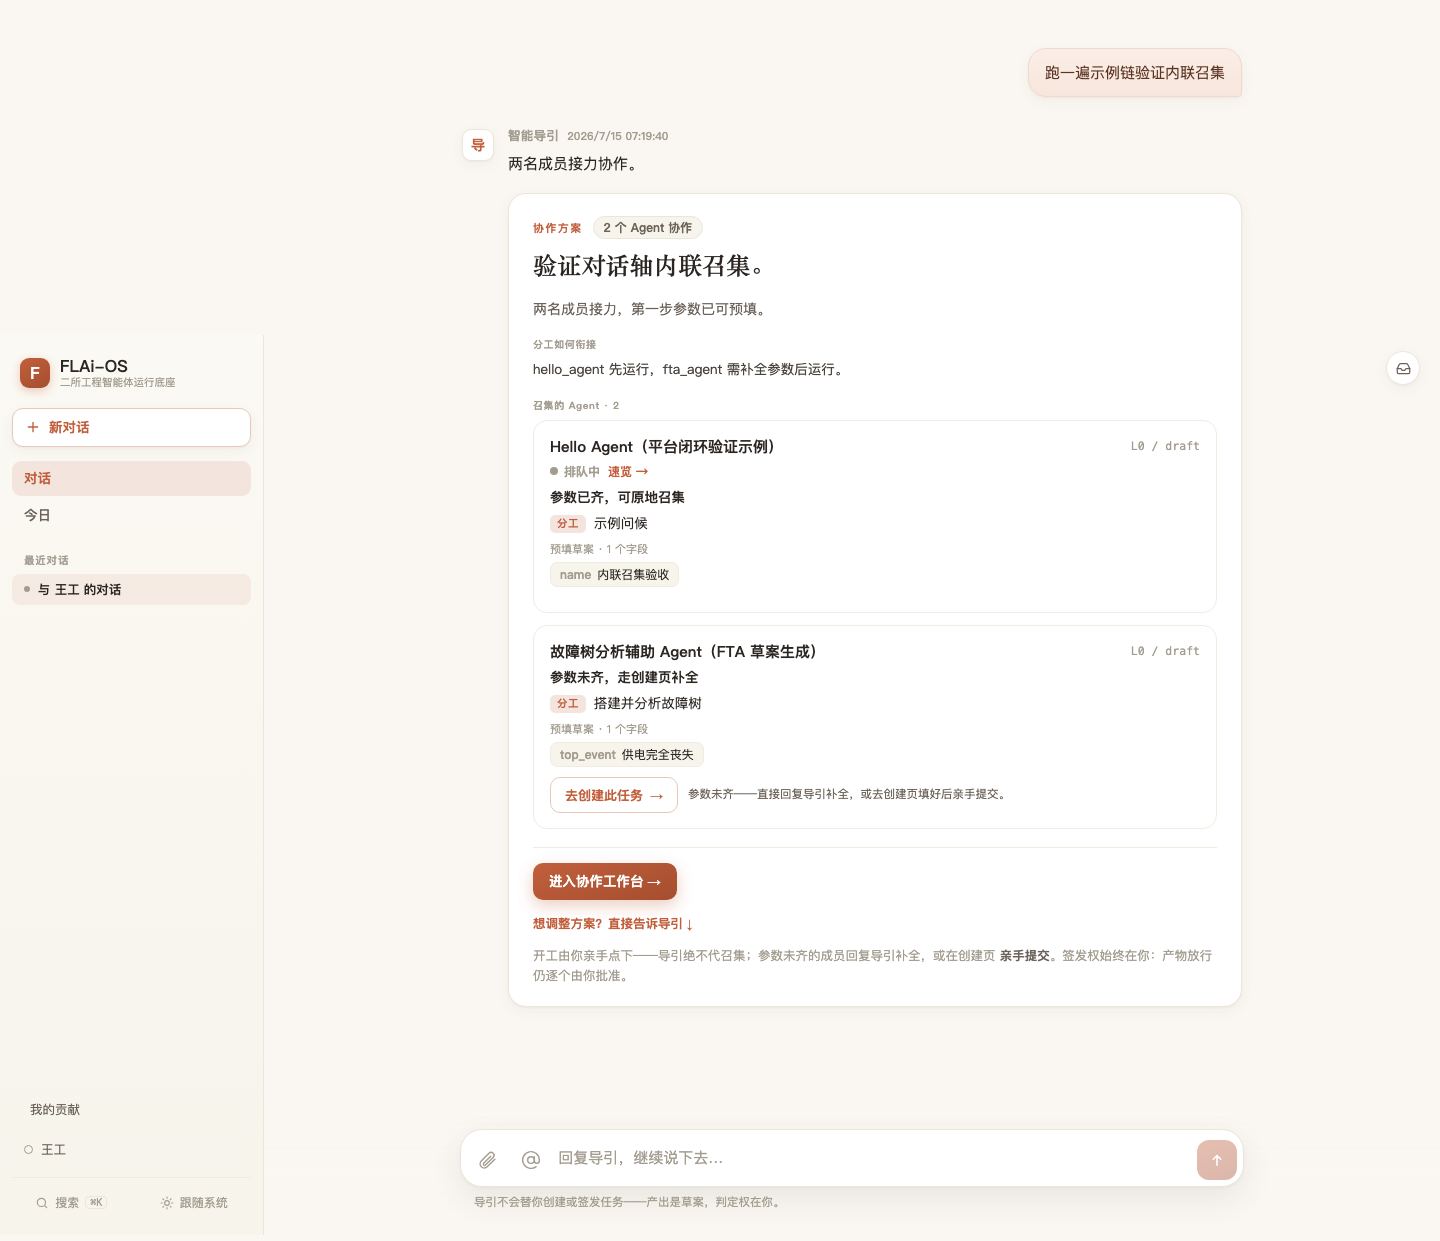
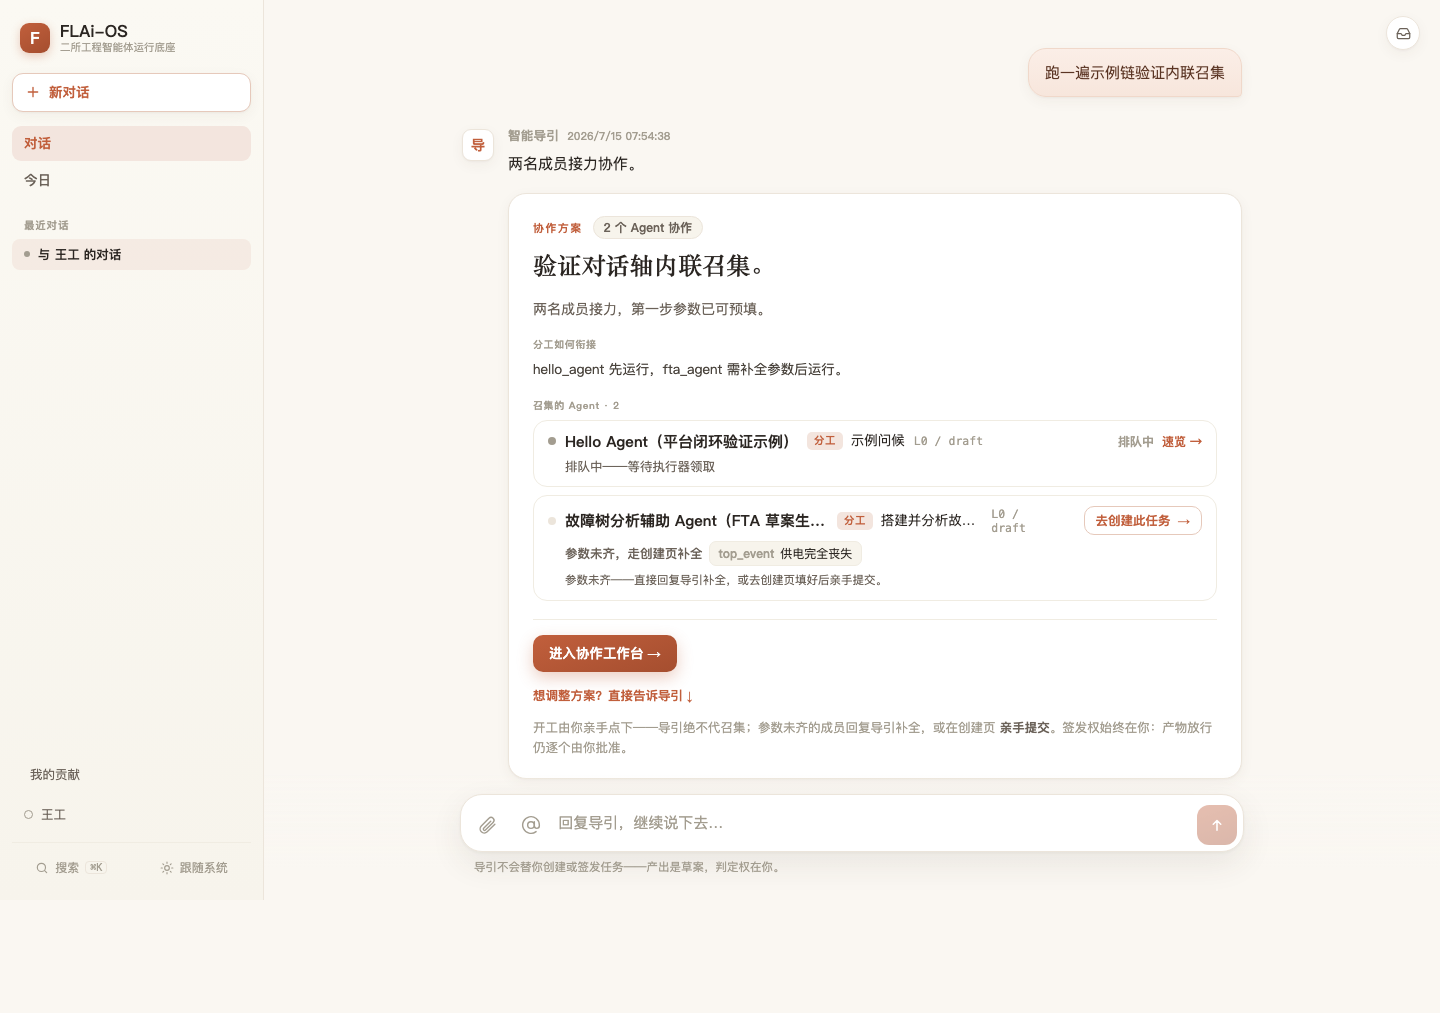
feat: 方案卡成员行改 codex 式实时子 agent 行（范式 2a 四刀）
owner 定向：成员不要大静卡，要 codex 子 agent 那样的紧凑实时行。依据
agent-ui-design disclosure-grammar canon（耗时+吞吐 meta / 时态即状态 /
完工盖章 / 运行态=文本活跳+扫光的灰阶纪律）：

- 一行一成员：状态灯（工作态脉动）+ 名字 + 分工 tag + 成熟度 + 右槽
  实时状态词 + 秒表「· 12s」（1s 离散文本替换，tabular-nums 不抖宽）+ 速览/审阅签发。
- 次行实时旁白：运行中=事件驱动（~3s 轮询 /tasks/{id}/events 取最新事件译成
  一行人话：迭代块 3/6 · 残差 2.1e-03——不滚屏 raw）+ shimmer 扫光
  （prefers-reduced-motion 关闭）；排队/待审/完成/失败各配语义句，
  完成=过去式盖章「任务完成 · 用时 10s」。
- 未召集成员：次行收纳理由+预填 chips 一行（过程可折）；就绪徽/创建页 escape
  语义原样；产物锚点行/速览/审阅签发/去创建此任务 等全部 e2e 锚点类名与文案不动。
- 引擎生命周期：仅存在工作态成员任务时运转（watch 开合），卸载即清；
  单任务事件拉取失败不打断其它行、不伪造旁白。
- 坑：.agent-card 基类 flex 声明在后，同特异性覆盖 .sa-row 的 block——
  双类 .agent-card.sa-row 压制（实拍逮到：完成行被挤成一行）。

e2e 14/14 绿 + m6/m8编排/m9 邻居绿；实机截图亲验（排队/运行/完成三态+秒表+盖章）。

confidence: high

diff --git a/frontend/src/views/GuidePage.vue b/frontend/src/views/GuidePage.vue
@@ -114,21 +114,29 @@
               </div>
 
               <div class="section-label roster-label">召集的 Agent · {{ m.recommendation.agents.length }}</div>
+              <!-- codex 式子 agent 行（owner 定向：紧凑+实时感，不要大静卡）：
+                   一行一名成员——状态灯 + 名字 + 分工 + 右槽实时状态词/耗时秒表；
+                   次行=实时进度旁白（运行中 shimmer 扫光，事件驱动）或未召集时的
+                   预填摘要。过程可折，变更与决策必露。 -->
               <div class="agent-list">
                 <div
                   v-for="(a, ai) in m.recommendation.agents"
                   :key="ai"
-                  class="agent-card"
-                  :class="{ 'fx-rise': m.fresh }"
+                  class="agent-card sa-row"
+                  :class="{ 'fx-rise': m.fresh, 'is-live': !!agentTaskInfo(a) }"
                 >
-                  <div class="agent-main">
-                    <div class="agent-top">
-                      <span class="agent-name">{{ a.agent_name }}</span>
-                      <span class="agent-maturity">{{ a.maturity }} / {{ a.status }}</span>
-                    </div>
+                  <div class="sa-head">
+                    <span
+                      class="status-lamp"
+                      :class="{ 'is-pulsing': agentTaskInfo(a) && isWorkState(agentTaskInfo(a).latest.status) }"
+                      :style="{ background: agentTaskInfo(a) ? taskLampColor(agentTaskInfo(a).latest.status) : 'var(--hairline)' }"
+                    ></span>
+                    <span class="agent-name">{{ a.agent_name }}</span>
+                    <span v-if="a.role" class="agent-role"><span class="role-tag">分工</span>{{ a.role }}</span>
+                    <span class="agent-maturity">{{ a.maturity }} / {{ a.status }}</span>
+                    <span class="sa-spacer"></span>
 
-                    <!-- B1 对话轴督战：该会话已为此 Agent 召集过任务才显示（诚实地板，
-                         未召集零占位）；点击直开任务速览，不逼人跳页看进度。 -->
+                    <!-- 右槽①已召集：实时状态词+秒表，点击直开速览（B1 对话轴督战原语义） -->
                     <div
                       v-if="agentTaskInfo(a)"
                       class="agent-status"
@@ -138,64 +146,62 @@
                       @keydown.enter.stop.prevent="openTaskPeek(agentTaskInfo(a).latest.id)"
                       @keydown.space.stop.prevent="openTaskPeek(agentTaskInfo(a).latest.id)"
                     >
-                      <span
-                        class="status-lamp"
-                        :class="{ 'is-pulsing': isWorkState(agentTaskInfo(a).latest.status) }"
-                        :style="{ background: taskLampColor(agentTaskInfo(a).latest.status) }"
-                      ></span>
                       <span class="status-word" :style="{ color: taskLampColor(agentTaskInfo(a).latest.status) }">
                         {{ statusLabel(agentTaskInfo(a).latest.status) }}
                       </span>
+                      <span v-if="elapsedText(agentTaskInfo(a).latest)" class="sa-elapsed">· {{ elapsedText(agentTaskInfo(a).latest) }}</span>
                       <span v-if="agentTaskInfo(a).extra > 0" class="status-extra">+{{ agentTaskInfo(a).extra }}</span>
-                      <!-- 行动召唤按态分级：待签发=amber 强 CTA（签发来找人）；其余=速览 -->
                       <span v-if="agentTaskInfo(a).latest.status === 'waiting_review'" class="status-peek is-review">审阅签发 →</span>
                       <span v-else class="status-peek">速览 →</span>
                     </div>
-
-                    <!-- 产物锚点行（Claude Artifact 卡片锚点哲学）：任务完成且真有产物
-                         才长出——点击同样直开速览（产物预览+签发同面板），零跳页。 -->
-                    <div
-                      v-if="agentTaskInfo(a) && agentTaskInfo(a).latest.status === 'completed' && (agentTaskInfo(a).latest.output_file_ids || []).length"
-                      class="status-artifact"
-                      role="button"
-                      tabindex="0"
-                      @click.stop="openTaskPeek(agentTaskInfo(a).latest.id)"
-                      @keydown.enter.stop.prevent="openTaskPeek(agentTaskInfo(a).latest.id)"
-                      @keydown.space.stop.prevent="openTaskPeek(agentTaskInfo(a).latest.id)"
-                    >
-                      <svg class="artifact-icon" width="13" height="13" viewBox="0 0 24 24" fill="none" stroke="currentColor" stroke-width="2" stroke-linecap="round" stroke-linejoin="round"><path d="M14.5 2H6a2 2 0 0 0-2 2v16a2 2 0 0 0 2 2h12a2 2 0 0 0 2-2V7.5L14.5 2z"/><polyline points="14 2 14 8 20 8"/></svg>
-                      <span class="artifact-count">{{ (agentTaskInfo(a).latest.output_file_ids || []).length }} 件产物</span>
-                      <span class="artifact-open">查看 ↗</span>
+                    <!-- 右槽②未召集：就绪徽 / 创建页 escape -->
+                    <div v-else-if="!summonedLocally(a)" class="agent-actions">
+                      <span v-if="agentBatchable(a, m.recommendation)" class="agent-readytag">✓ 参数已齐 · 待开工</span>
+                      <button v-else class="agent-cta" @click="createOneTask(a, m.recommendation)">去创建此任务</button>
                     </div>
+                    <span v-else class="agent-readytag">已召集 · 接入中…</span>
+                  </div>
 
-                    <p v-if="a.rationale" class="agent-rationale">{{ a.rationale }}</p>
-                    <p v-if="a.role" class="agent-role"><span class="role-tag">分工</span>{{ a.role }}</p>
-                    <div v-if="inputCount(a)" class="agent-draft">
-                      <div class="draft-label">预填草案 · {{ inputCount(a) }} 个字段</div>
-                      <div class="draft-fields">
-                        <span v-for="(v, k) in a.prefilled_inputs" :key="k" class="draft-field">
-                          <span class="df-key">{{ k }}</span>
-                          <span class="df-val">{{ formatDraftVal(v) }}</span>
-                        </span>
-                      </div>
+                  <!-- 次行：实时旁白（已召集）——运行中=事件驱动 shimmer；终态=过去式盖章 -->
+                  <div
+                    v-if="agentTaskInfo(a)"
+                    class="sa-stageline"
+                    :class="{ 'is-running': agentTaskInfo(a).latest.status === 'running',
+                              'is-review': agentTaskInfo(a).latest.status === 'waiting_review' }"
+                  >{{ stagelineText(agentTaskInfo(a).latest) }}</div>
+                  <!-- 次行：未召集——理由 + 预填摘要一行收纳（过程可折） -->
+                  <template v-else>
+                    <div class="sa-subline">
+                      <span v-if="a.rationale" class="agent-rationale">{{ a.rationale }}</span>
+                      <span v-for="(v, k) in a.prefilled_inputs" :key="k" class="draft-field">
+                        <span class="df-key">{{ k }}</span>
+                        <span class="df-val">{{ formatDraftVal(v) }}</span>
+                      </span>
                     </div>
                     <p v-if="a.stripped_fields && a.stripped_fields.length" class="agent-stripped">
                       已剔除不合法字段：{{ a.stripped_fields.join("、") }}（未匹配该 Agent 的输入契约）
                     </p>
-                    <!-- 决策语法（disclosure grammar「变更与决策必露，过程可折」）：成员行
-                         零交互——就绪=纯展示徽（待开工），未就绪=创建页 escape（或直接回复
-                         导引补参数），已召集=督战 chip 即全部。唯一决策收敛到方案脚部的
-                         「照此方案开工」一键（人亲手点，导引绝不代召集）。 -->
-                    <div v-if="!agentTaskInfo(a) && !summonedLocally(a)" class="agent-actions">
-                      <span v-if="agentBatchable(a, m.recommendation)" class="agent-readytag">✓ 参数已齐 · 待开工</span>
-                      <template v-else>
-                        <button class="agent-cta" @click="createOneTask(a, m.recommendation)">去创建此任务</button>
-                        <!-- 提示按成员就绪分轴（CRS R0-P3）：参数齐但方案级不可开工（归档/附件）
-                             不能误导用户去修本已齐的参数 -->
-                        <span v-if="agentReady(a) === true" class="agent-unready-hint">参数已齐——本方案暂不可一键开工（会话已归档或有附件），可去创建页亲手提交。</span>
-                        <span v-else class="agent-unready-hint">参数未齐——直接回复导引补全，或去创建页填好后亲手提交。</span>
-                      </template>
+                    <!-- 提示按成员就绪分轴（CRS R0-P3）：参数齐但方案级不可开工（归档/附件）
+                         不能误导用户去修本已齐的参数 -->
+                    <div v-if="!summonedLocally(a) && !agentBatchable(a, m.recommendation)" class="sa-subline">
+                      <span v-if="agentReady(a) === true" class="agent-unready-hint">参数已齐——本方案暂不可一键开工（会话已归档或有附件），可去创建页亲手提交。</span>
+                      <span v-else class="agent-unready-hint">参数未齐——直接回复导引补全，或去创建页填好后亲手提交。</span>
                     </div>
+                  </template>
+
+                  <!-- 产物锚点行（Claude Artifact 卡片锚点哲学）：完成且真有产物才长出 -->
+                  <div
+                    v-if="agentTaskInfo(a) && agentTaskInfo(a).latest.status === 'completed' && (agentTaskInfo(a).latest.output_file_ids || []).length"
+                    class="status-artifact"
+                    role="button"
+                    tabindex="0"
+                    @click.stop="openTaskPeek(agentTaskInfo(a).latest.id)"
+                    @keydown.enter.stop.prevent="openTaskPeek(agentTaskInfo(a).latest.id)"
+                    @keydown.space.stop.prevent="openTaskPeek(agentTaskInfo(a).latest.id)"
+                  >
+                    <svg class="artifact-icon" width="13" height="13" viewBox="0 0 24 24" fill="none" stroke="currentColor" stroke-width="2" stroke-linecap="round" stroke-linejoin="round"><path d="M14.5 2H6a2 2 0 0 0-2 2v16a2 2 0 0 0 2 2h12a2 2 0 0 0 2-2V7.5L14.5 2z"/><polyline points="14 2 14 8 20 8"/></svg>
+                    <span class="artifact-count">{{ (agentTaskInfo(a).latest.output_file_ids || []).length }} 件产物</span>
+                    <span class="artifact-open">查看 ↗</span>
                   </div>
                 </div>
               </div>
@@ -336,7 +342,7 @@ import { reactive, ref, computed, nextTick, watch, onMounted, onUnmounted } from
 import { useRoute, useRouter } from "vue-router";
 import { ElMessage } from "element-plus";
 import { createConversation, postMessage, getConversation } from "../api/conversations";
-import { createTask } from "../api/tasks";
+import { createTask, listTaskEvents } from "../api/tasks";
 import { listAgents, getAgent } from "../api/agents";
 import { uploadFile as apiUploadFile } from "../api/files";
 import { categoryColor, categoryLabel, categoryTip, maturityTip, statusLabel, taskLampColor, TASK_WORK_STATES, formatTime } from "../utils/format";
@@ -660,6 +666,123 @@ function ensureAgentSchemasForMessages() {
         });
     }
   }
+}
+
+// ── 实时子 agent 行引擎（owner 定向「像 codex 子 agent」）────────────────────
+// 秒表：1s 离散文本替换（codex 灰阶纪律：活着的信号=文本活跳，零 spinner 通胀）；
+// 旁白：运行中任务 ~2.5s 轮询事件时间轴，取最新事件译成一行人话（事件驱动，
+// 不滚屏 raw——disclosure grammar「过程压成摘要行」）。两者都只在有工作态任务时运转。
+const nowTick = ref(Date.now());
+const stageNotes = reactive({}); // taskId -> 最新旁白（保留终态最后一句作盖章素材）
+let liveTimer = null;
+let stageBusy = false;
+
+const EVENT_VERB = {
+  task_created: "已创建，等待执行器领取",
+  validation_started: "校验输入契约…",
+  tool_started: "调用工具…",
+  tool_finished: "工具已返回",
+  agent_log: "运行中…",
+  review_requested: "产物就绪，等待人工放行",
+  review_approved: "人工已放行",
+  task_completed: "任务完成",
+  task_failed: "运行失败",
+};
+
+function describeEvent(ev) {
+  if (!ev) return "";
+  const payload = ev.payload || {};
+  if (typeof payload.stage === "string" && payload.stage) {
+    let txt = payload.stage;
+    if (payload.residual) txt += ` · 残差 ${payload.residual}`;
+    if (payload.iterations) txt += ` · 累计 ${payload.iterations} 次迭代`;
+    if (payload.result) txt += ` · ${payload.result}`;
+    return txt;
+  }
+  if (typeof ev.message === "string" && ev.message.trim()) return ev.message.trim();
+  return EVENT_VERB[ev.event_type] || ev.event_type || "";
+}
+
+async function pollRunningStages() {
+  if (stageBusy === true) return;
+  const running = conversationTasks.value.filter((t) => t.status === "running").slice(0, 3);
+  if (running.length === 0) return;
+  stageBusy = true;
+  try {
+    for (const t of running) {
+      try {
+        const events = await listTaskEvents(t.id);
+        const last = events && events.length ? events[events.length - 1] : null;
+        const note = describeEvent(last);
+        if (note) stageNotes[t.id] = note;
+      } catch {
+        /* 单任务事件拉取失败不打断秒表与其它行（下轮重试，不伪造旁白） */
+      }
+    }
+  } finally {
+    stageBusy = false;
+  }
+}
+
+function ensureLiveTicker() {
+  if (liveTimer) return;
+  let beat = 0;
+  liveTimer = setInterval(() => {
+    nowTick.value = Date.now();
+    beat += 1;
+    if (beat % 3 === 0) pollRunningStages(); // ~3s 一轮旁白，秒表仍 1s 活跳
+  }, 1000);
+}
+
+function stopLiveTicker() {
+  if (liveTimer) {
+    clearInterval(liveTimer);
+    liveTimer = null;
+  }
+}
+
+// 有任一工作态成员任务 → 引擎开；全部终态 → 引擎停（不空转）。
+watch(
+  () => conversationTasks.value.some((t) => TASK_WORK_STATES.has(t.status)),
+  (anyWork) => {
+    if (anyWork === true) {
+      ensureLiveTicker();
+      pollRunningStages();
+    } else {
+      stopLiveTicker();
+    }
+  },
+  { immediate: false }
+);
+onUnmounted(stopLiveTicker);
+
+function elapsedText(t) {
+  const startRaw = t.started_at || t.created_at || "";
+  const start = Date.parse(startRaw);
+  if (!Number.isFinite(start)) return "";
+  let end;
+  if (TASK_WORK_STATES.has(t.status)) {
+    end = nowTick.value;
+  } else {
+    end = Date.parse(t.finished_at || "");
+    if (!Number.isFinite(end)) return "";
+  }
+  const sec = Math.max(0, Math.round((end - start) / 1000));
+  if (sec < 60) return `${sec}s`;
+  return `${Math.floor(sec / 60)}m ${String(sec % 60).padStart(2, "0")}s`; // canon §三：秒补零
+}
+
+function stagelineText(t) {
+  if (t.status === "queued") return "排队中——等待执行器领取";
+  if (t.status === "running") return stageNotes[t.id] || "运行中…";
+  if (t.status === "waiting_review") return "产物已就绪——等待你审阅放行";
+  if (t.status === "completed") {
+    const dur = elapsedText(t);
+    return dur ? `任务完成 · 用时 ${dur}` : "任务完成"; // 时态即状态：过去式盖章
+  }
+  if (t.status === "failed") return "运行失败——点右侧速览看详情（如实透出，不静默）";
+  if (t.status === "cancelled") return "已取消";
+  return "";
 }
 
 // 成员级就绪（fail-closed）：params 型 + 预填非空 + 过当前契约（required 齐 + 原语校验）。
@@ -1277,9 +1400,76 @@ watch(
 .agent-list {
   display: flex;
   flex-direction: column;
-  gap: 12px;
+  gap: 8px;
   margin-bottom: 6px;
 }
+
+/* codex 式子 agent 行：紧凑、实时、灰阶纪律（彩色只给状态灯与信任色语义）。
+   注意特异性：.agent-card 基类是 flex 且声明在后，必须用双类压制。 */
+.agent-card.sa-row {
+  display: block;
+  padding: 10px 14px;
+  gap: 0;
+}
+.agent-card.sa-row:hover { transform: none; }
+.sa-head {
+  display: flex;
+  align-items: center;
+  gap: 9px;
+  min-width: 0;
+}
+.sa-head .agent-name { flex: 0 1 auto; white-space: nowrap; overflow: hidden; text-overflow: ellipsis; }
+.sa-head .agent-role { margin: 0; flex: 0 1 auto; white-space: nowrap; overflow: hidden; text-overflow: ellipsis; }
+.sa-head .agent-maturity { margin-left: 0; }
+.sa-spacer { flex: 1 1 auto; min-width: 8px; }
+.sa-head .agent-status { margin: 0; flex: 0 0 auto; }
+.sa-head .agent-actions { margin: 0; flex: 0 0 auto; }
+.sa-head .agent-cta { padding: 5px 11px; font-size: 12.5px; }
+.sa-elapsed {
+  font-size: 12px;
+  color: var(--ink-soft);
+  font-variant-numeric: tabular-nums; /* 秒表逐秒活跳不抖宽 */
+}
+
+/* 实时旁白行：事件驱动一行人话；运行中=灰阶 shimmer 扫光（活着的信号） */
+.sa-stageline {
+  margin: 6px 0 0 17px;
+  font-size: 12.5px;
+  line-height: 1.5;
+  color: var(--ink-soft);
+}
+.sa-stageline.is-running {
+  background: linear-gradient(100deg, var(--ink-soft) 30%, var(--clay) 50%, var(--ink-soft) 70%);
+  background-size: 220% 100%;
+  -webkit-background-clip: text;
+  background-clip: text;
+  color: transparent;
+  animation: sa-shimmer 2.4s linear infinite;
+}
+.sa-stageline.is-review { color: var(--trust-pending); }
+@keyframes sa-shimmer {
+  from { background-position: 200% 0; }
+  to { background-position: -20% 0; }
+}
+@media (prefers-reduced-motion: reduce) {
+  .sa-stageline.is-running {
+    animation: none;
+    background: none;
+    color: var(--ink-soft);
+  }
+}
+
+/* 未召集次行：理由 + 预填 chips 单行收纳 */
+.sa-subline {
+  display: flex;
+  align-items: center;
+  flex-wrap: wrap;
+  gap: 6px;
+  margin: 6px 0 0 17px;
+}
+.sa-subline .agent-rationale { margin: 0; font-size: 12.5px; font-weight: 500; color: var(--ink-soft); }
+.sa-row .status-artifact { margin: 7px 0 0 17px; }
+.sa-row .agent-stripped { margin: 6px 0 0 17px; }
 .agent-card {
   display: flex;
   gap: 14px;
